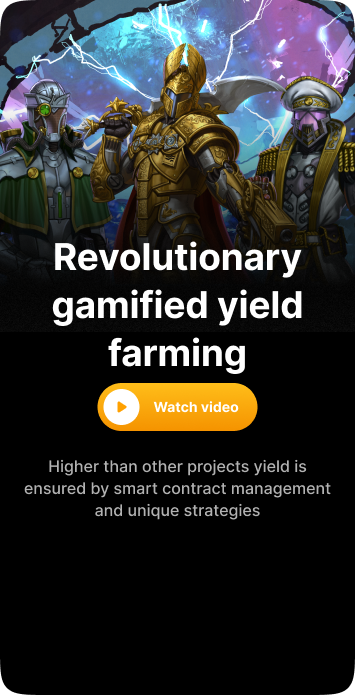
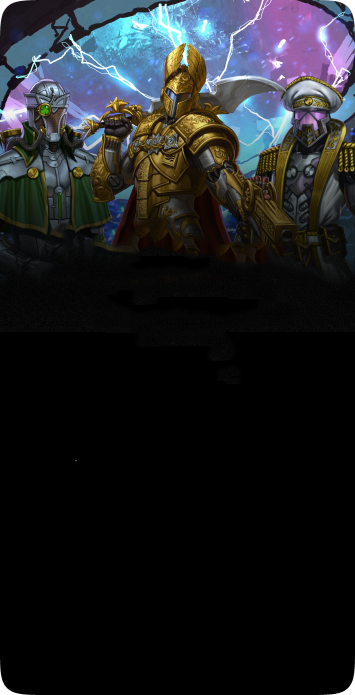
Captains block adapted

Changed region(s): [[0.1239, 0.3022, 0.8676, 0.6345], [0.062, 0.6647, 0.9296, 0.7554]]

diff --git a/src/components/Svg/Icons/SolanaLogo.tsx b/src/components/Svg/Icons/SolanaLogo.tsx
@@ -2,15 +2,17 @@ import React from 'react'
 
 const Icon: React.FC = () => {
     return (
-      <svg width="94" height="19" viewBox="0 0 94 19" fill="none" xmlns="http://www.w3.org/2000/svg" xmlnsXlink="http://www.w3.org/1999/xlink">
-        <rect width="94" height="19" fill="url(#pattern0)"/>
-        <defs>
-          <pattern id="pattern0" patternContentUnits="objectBoundingBox" width="1" height="1">
-            <use xlinkHref="#image0" transform="translate(0 -0.000750769) scale(0.00135135 0.00725726)"/>
-          </pattern>
[1 lines of base64/hex data omitted]
-        </defs>
-      </svg>
+        <svg width="123" height="23" viewBox="0 0 123 23" fill="none" xmlns="http://www.w3.org/2000/svg">
+            <path d="M41.6189 12.565H46.4813C47.165 12.565 47.7191 13.0839 47.7191 13.7175C47.7191 14.3565 47.165 14.8699 46.4813 14.8699H40.6169C40.5226 14.8699 40.4342 14.9027 40.3694 14.9573L38.6012 16.3719C38.3301 16.5904 38.4951 17 38.8487 17H46.1866C46.1866 17 46.1925 17 46.1925 16.9945C46.1925 16.9891 46.1984 16.9891 46.1984 16.9891C46.2927 16.9945 46.3811 17 46.4754 17C48.4204 17 50 15.5308 50 13.7175C50 11.997 48.5796 10.5824 46.7642 10.4459C46.7642 10.4459 46.7583 10.4459 46.7583 10.4404C46.7583 10.435 46.7583 10.435 46.7525 10.435H41.5187C40.835 10.435 40.2809 9.91609 40.2809 9.28252C40.2809 8.64349 40.835 8.13009 41.5187 8.13009H47.3713C47.4656 8.13009 47.5599 8.09732 47.6306 8.03724L49.275 6.62264C49.5344 6.39871 49.3635 6 49.0157 6H41.6189C41.5894 6 41.554 6 41.5246 6C39.5796 6 38 7.46921 38 9.28252C38 11.0958 39.5796 12.565 41.5246 12.565C41.554 12.565 41.5835 12.565 41.6189 12.565Z" fill="white"/>
+            <path d="M68.3907 6.00545C68.1743 6.00545 68 6.16361 68 6.36539V16.6401C68 16.8364 68.1743 17 68.3907 17H77.4681C77.5763 17 77.6785 16.9564 77.7566 16.8855L78.8928 15.7784C79.1273 15.5493 78.9529 15.173 78.6042 15.173H70.6811C70.4647 15.173 70.2904 15.0149 70.2904 14.8131V6.35994C70.2904 6.16361 70.116 6 69.8996 6H68.3907V6.00545Z" fill="white"/>
+            <path fillRule="evenodd" clipRule="evenodd" d="M55.0557 6C55.0557 6.00546 55.0557 6.00546 55.0557 6C53.9443 6.04918 53.0518 6.89617 53 7.95082V14.8743C53 14.9016 53 14.9344 53 14.9617C53 16.0601 53.9098 16.9563 55.0557 17H62.9443C64.0845 16.9508 65 16.0546 65 14.9617C65 14.9344 65 14.9016 65 14.8743V7.95628C64.9539 6.90164 64.0614 6.04918 62.9501 6.00546H55.0557V6ZM56.5297 7.95628C56.524 7.95628 56.524 7.95628 56.5297 7.95628C55.833 7.98361 55.2745 8.51913 55.2457 9.18579V13.541C55.2457 13.5574 55.2457 13.5792 55.2457 13.5956C55.2457 14.2842 55.8157 14.8525 56.5297 14.8798H61.476C62.19 14.8525 62.7601 14.2842 62.7601 13.5956C62.7601 13.5792 62.7601 13.5574 62.7601 13.541V9.18579C62.7313 8.51913 62.1727 7.98907 61.476 7.95628H56.5297Z" fill="white"/>
+            <path fillRule="evenodd" clipRule="evenodd" d="M90.7438 16.6342C90.7438 16.8308 90.9133 16.9945 91.1237 16.9945H92.6201C92.8305 16.9945 93 16.8362 93 16.6342V8.12357C93 8.09628 93 8.06352 93 8.03623C93 6.93896 92.0823 6.04367 90.9367 6H83.2504C83.2211 6 83.1861 6 83.1568 6C81.9644 6 81 6.91166 81 8.04169C81 8.06898 81 8.10174 81 8.12903V16.6397C81 16.8362 81.1695 17 81.3799 17H82.8763C83.0867 17 83.2562 16.8417 83.2562 16.6397V13.0968C83.2562 12.9002 83.4257 12.7365 83.6361 12.7365H90.3814C90.5918 12.7365 90.7613 12.8948 90.7613 13.0968V16.6342H90.7438ZM83.2445 10.7767V9.00794C83.2445 8.3201 83.8349 7.76328 84.5597 7.76328H89.4345C90.1593 7.76328 90.7496 8.3201 90.7496 9.00794V10.7767C90.7496 10.9732 90.5801 11.137 90.3697 11.137H83.6244C83.414 11.137 83.2445 10.9787 83.2445 10.7767Z" fill="white"/>
+            <path fillRule="evenodd" clipRule="evenodd" d="M121.12 17C120.912 17 120.745 16.8417 120.745 16.6397V13.0968C120.745 12.9002 120.577 12.7365 120.369 12.7365H113.62C113.412 12.7365 113.244 12.8948 113.244 13.0968V16.6397C113.244 16.8362 113.076 17 112.868 17H111.376C111.168 17 111 16.8417 111 16.6397V8.12903C111 8.10174 111 8.06898 111 8.04169C111 6.91712 111.966 6 113.157 6C113.186 6 113.221 6 113.25 6H120.935C122.08 6.04913 123 6.94442 123 8.03623C123 8.06352 123 8.09628 123 8.12357V16.6342C123 16.8308 122.832 16.9945 122.624 16.9945H121.12V17ZM113.244 9.0134V10.7821C113.244 10.9787 113.412 11.1424 113.62 11.1424H120.369C120.577 11.1424 120.745 10.9841 120.745 10.7821V9.0134C120.745 8.32556 120.155 7.76873 119.432 7.76873H114.557C113.828 7.76873 113.244 8.32556 113.244 9.0134Z" fill="white"/>
+            <path d="M98.0953 6C98.2062 6 98.3113 6.04363 98.3813 6.12543L105.082 13.5915C105.309 13.8423 105.747 13.6896 105.747 13.357V6.35994C105.747 6.16361 105.916 6 106.126 6H107.621C107.831 6 108 6.15816 108 6.35994V16.6346C108 16.8309 107.831 16.9945 107.621 16.9945H105.765C105.759 16.9945 105.753 16.9891 105.753 16.9836C105.753 16.9782 105.753 16.9782 105.747 16.9727L98.93 9.56123C98.7023 9.31036 98.2646 9.46852 98.2646 9.79574V16.6401C98.2646 16.8364 98.0953 17 97.8852 17H96.3794C96.1693 17 96 16.8418 96 16.6401V6.35994C96 6.16361 96.1693 6 96.3794 6H98.0953V6Z" fill="white"/>
+            <path d="M4.71423 17.2947C4.89206 17.1061 5.131 17 5.38107 17H28.5257C28.948 17 29.1592 17.5422 28.8591 17.8546L24.2858 22.7053C24.1079 22.8939 23.869 23 23.6189 23H0.474292C0.0519647 23 -0.159199 22.4578 0.140876 22.1454L4.71423 17.2947Z" fill="white"/>
+            <path d="M4.71423 0.294985C4.89206 0.106195 5.131 0 5.38107 0H28.5257C28.948 0 29.1592 0.542773 28.8591 0.855457L24.2858 5.70501C24.1079 5.89381 23.869 6 23.6189 6H0.474292C0.0519647 6 -0.159199 5.45723 0.140876 5.14454L4.71423 0.294985Z" fill="white"/>
+            <path d="M24.2858 8.29499C24.1079 8.10619 23.869 8 23.6189 8H0.474292C0.0519647 8 -0.159199 8.54277 0.140876 8.85546L4.71423 13.705C4.89206 13.8938 5.131 14 5.38107 14H28.5257C28.948 14 29.1592 13.4572 28.8591 13.1445L24.2858 8.29499Z" fill="white"/>
+        </svg>
     )
 }
 

diff --git a/src/views/Home/components/HomeGreetings.tsx b/src/views/Home/components/HomeGreetings.tsx
@@ -356,7 +356,7 @@ const InputContainer = styled.div`
 const NetworksContainer = styled.div<{ mobile?: boolean }>`
   width: 100%;
   ${({ mobile }) => (mobile ? 'display: none;' : '')}
-  @media screen and (max-width: 825px) {
+  @media screen and (max-width: 1000px) {
     ${({ mobile }) => (mobile ? 'display: block;' : '')}
   }
 `
@@ -857,13 +857,13 @@ const CaptainsSection = styled(Section)`
   height: 750px;
   
   @media screen and (max-width: 1400px) {
-    width: 700px;
-    height: 450px;
+    width: 916.5px;
+    height: 650px;
   }
   
-  @media screen and (max-width: 1200px) {
-    width: 600px;
-    height: 350px;
+  @media screen and (max-width: 1250px) {
+    width: 705px;
+    height: 500px;
   }
   
   @media screen and (max-width: 800px) {
@@ -888,8 +888,8 @@ const CaptainsSection = styled(Section)`
 const VideoButton = styled.a`
   box-sizing: border-box;
   position: absolute;
-  top: 40px;
-  right: 40px;
+  top: 25px;
+  right: 22px;
   display: flex;
   justify-content: space-between;
   align-items: center;
@@ -899,15 +899,6 @@ const VideoButton = styled.a`
   background: linear-gradient(180deg, #FFBE1A 0%, #F59300 100%), linear-gradient(180deg, #FEE29A 0%, #FA9D00 100%);
   border-radius: 39px;
   
-  @media screen and (max-width: 1400px) {
-    top: 20px;
-    right: 60px;
-  }
-  
-  @media screen and (max-width: 800px) {
-    margin-top: 6px;
-  }
-  
   span {
     color: #FFFFFF;
     font-family: Inter;
@@ -916,6 +907,21 @@ const VideoButton = styled.a`
     font-weight: 700;
     line-height: 20px;
     margin-right: 10px;
+  }
+  
+  @media screen and (max-width: 1400px) {
+    width: 140px;
+    top: 20px;
+    right: 22px;
+    
+    span {
+      font-size: 12px;    
+      line-height: 18px;
+    }
+  }
+  
+  @media screen and (max-width: 800px) {
+    margin-top: 6px;
   }
   
   :hover {
@@ -967,17 +973,17 @@ const CaptainsTitle = styled.div`
   text-align: center;
   
   @media screen and (max-width: 1400px) {
-    bottom: 125px;
+    width: 450px;
+    bottom: 175px;
     font-size: 40px;
     line-height: 48px;
   }
   
-  @media screen and (max-width: 1200px) {
-    width: 300px;
-    bottom: 100px;
-    font-size: 24px;
-    line-height: 32px;
-  }
+  // @media screen and (max-width: 1200px) {
+  //   width: 360px;
+  //   font-size: 32px;
+  //   line-height: 40px;
+  // }
   
   @media screen and (max-width: 800px) {
     width: 260px;
@@ -1018,14 +1024,8 @@ const CaptainsButtons = styled(Flex)`
   position: absolute;
   bottom: 40px;
   
-  @media screen and (max-width: 1400px) {
-    bottom: 20px;
-  }
-  
-  @media screen and (max-width: 1200px) {
-    a {
-      height: 30px;
-    }
+  @media screen and (max-width: 1250px) {
+    bottom: 30px;
   }
   
   @media screen and (max-width: 800px) {
@@ -1513,25 +1513,6 @@ const HomeGreetings: React.FC = () => {
                   </NetworkItem>
                   <NetworkItem disabled>
                     <AIcon />
-                  </NetworkItem>
-                </Networks>
-              </NetworksContainer>
-              <NetworksContainer mobile>
-                <Text small style={{ marginTop: '24px' }}>
-                  {t('comingSoon')}
-                </Text>
-                <Networks mobile>
-                  <NetworkItem disabled>
-                    <PolkadotIcon />
-                  </NetworkItem>
-                  <NetworkItem disabled>
-                    <NearIcon />
-                  </NetworkItem>
-                  <NetworkItem disabled>
-                    <AIcon />
-                  </NetworkItem>
-                  <NetworkItem disabled>
-                    <SolanaIcon />
                   </NetworkItem>
                 </Networks>
               </NetworksContainer>
